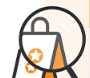
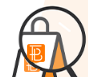
flash auto load sorted

diff --git a/src/pages/helpCenter/Placeanorder.js b/src/pages/helpCenter/Placeanorder.js
@@ -1,21 +1,10 @@
 import React from "react";
+import search from "./Placeanorder/1.webp";
 
 export default function Placeanorder() {
   return (
     <div class="contentswrap">
       <h2 className="maincontecthead">How to place an order</h2>
-      <p>&nbsp;</p>
-      <p>
-        <iframe
-          title="YouTube video player"
-          src="https://www.youtube.com/embed/XyUwkOvzqCA?si=2tX0gzDpXJuLVsNx"
-          width="560"
-          height="315"
-          frameborder="0"
-          allow="accelerometer; autoplay; clipboard-write; encrypted-media; gyroscope; picture-in-picture; web-share"
-          allowfullscreen="allowfullscreen"
-        ></iframe>
-      </p>
       <p>&nbsp;</p>
       <p dir="ltr">Place an order in a few simple steps:</p>
       <p dir="ltr">&nbsp;</p>
@@ -39,8 +28,8 @@ export default function Placeanorder() {
             >
               <div class="IZ6rdc">
                 •&nbsp;Browse the&nbsp;
-                <a class="-cta" href="https://www.jumia.com.ng/">
-                  JUMIA WEBSITE&nbsp;
+                <a class="-cta" href="https://www.fashionblush.com/">
+                  FASHION BLUSH&nbsp;
                 </a>
                 or use the search bar to find the product you want to order.
               </div>
@@ -72,23 +61,20 @@ export default function Placeanorder() {
       <p dir="ltr">&nbsp;</p>
       <p dir="ltr">
         <strong>
-          Ensure to check the seller score, product rating, pricing, warranty
-          information, and the product description.
+          Ensure to check the product rating, pricing and the product
+          description.
         </strong>
       </p>
       <p dir="ltr">&nbsp;</p>
       <p>
-        <img
-          class="-dkimg"
-          src="https://ng.jumia.is/cms/0-1-initiatives/cxp/2023/place-order-1-dk.png"
-        />
+        <img class="-dkimg" src={search} />
       </p>
-      <p>
+      {/* <p>
         <img
           class="-mbimg"
           src="https://ng.jumia.is/cms/0-1-initiatives/cxp/2023/place-order/place-order-1-m.png"
         />
-      </p>
+      </p> */}
       <p dir="ltr">&nbsp;</p>
       <p dir="ltr">
         <strong>Step 2</strong>:&nbsp;
@@ -108,18 +94,18 @@ export default function Placeanorder() {
           src="https://ng.jumia.is/cms/0-1-initiatives/cxp/2023/place-order-2-dk.png"
         />
       </p>
-      <p>
+      {/* <p>
         <img
           class="-mbimg"
           src="https://ng.jumia.is/cms/0-1-initiatives/cxp/2023/place-order/place-order-2-m.png"
         />
-      </p>
-      <p>
+      </p> */}
+      {/* <p>
         <img
           class="-mbimg"
           src="https://ng.jumia.is/cms/0-1-initiatives/cxp/2023/place-order/place-order-3-m.png"
         />
-      </p>
+      </p> */}
       <p dir="ltr">&nbsp;</p>
       <p>
         <img

diff --git a/src/components/footer/Footer.js b/src/components/footer/Footer.js
@@ -199,11 +199,6 @@ export default function Footer() {
                       Pay for Order
                     </Link>
                   </li>
-                  <li>
-                    <Link to="/ReturnandRefundPolicy" class="col-li">
-                      Returns & Refunds
-                    </Link>
-                  </li>
 
                   <li>
                     <Link to="/ContactUs" class="col-li">
@@ -215,7 +210,7 @@ export default function Footer() {
             </div>
 
             <div class="footer-colum">
-              <div class="col-heading">PearlyTouch</div>
+              <div class="col-heading">Fashion Blush</div>
               <div class="col-ul">
                 <ul>
                   <li>
@@ -236,6 +231,11 @@ export default function Footer() {
                   <li>
                     <Link to="/CookiePolicy" class="col-li">
                       Cookie Policy
+                    </Link>
+                  </li>
+                  <li>
+                    <Link to="/ReturnandRefundPolicy" class="col-li">
+                      Returns & Refunds policy
                     </Link>
                   </li>
                 </ul>

diff --git a/src/components/countdown/ProductCountdowns.js b/src/components/countdown/ProductCountdowns.js
@@ -1,8 +1,11 @@
 import React, { useState, useEffect } from "react";
 
-export default function ProductCountdowns({ products, getcurrentFlash }) {
-  const [saleEnded, setSaleEnded] = useState(false);
-
+export default function ProductCountdowns({
+  products,
+  getcurrentFlash,
+  saleEnded,
+  setSaleEnded,
+}) {
   const now = new Date();
   const uniqueTimes = Array.from(
     new Set(products.map((product) => new Date(product.saleTime)))
@@ -22,15 +25,6 @@ export default function ProductCountdowns({ products, getcurrentFlash }) {
 
     return () => clearInterval(countdown);
   }, [nearestSaleTime]);
-
-  useEffect(() => {
-    if (saleEnded) {
-      setTimeout(() => {
-        getcurrentFlash();
-        // window.location.reload();
-      }, 3000); // Reload after 3 seconds when the sale ends
-    }
-  }, [saleEnded]);
 
   const CountdownTimer = ({ targetTime }) => {
     const calculateTimeLeft = () => {

diff --git a/src/components/productsSlidable/productGroup/ProductsGroup.js b/src/components/productsSlidable/productGroup/ProductsGroup.js
@@ -10,6 +10,7 @@ import ProductCardSkull from "../../Skeletons/ProductCardSkull";
 const ProductsGroup = () => {
   const [products, setProducts] = useState([]);
   const [loading, setLoading] = useState(true);
+  const [saleEnded, setSaleEnded] = useState(false);
 
   const [contwidth, setContwidth] = useState(0);
   const [elementwidth, setElementwidth] = useState(0);
@@ -19,7 +20,7 @@ const ProductsGroup = () => {
       setLoading(false);
       setProducts(p.data);
     });
-  }, []);
+  }, [saleEnded]);
 
   useEffect(() => {
     const proarea = document.querySelector(".productsarea");
@@ -52,6 +53,8 @@ const ProductsGroup = () => {
             <ProductCountdowns
               products={products}
               getcurrentFlash={getcurrentFlash}
+              saleEnded={saleEnded}
+              setSaleEnded={setSaleEnded}
             />
 
             <Link to={`/Flashsale`}>

diff --git a/src/pages/policies/TermsAndConditions.js b/src/pages/policies/TermsAndConditions.js
@@ -22,7 +22,6 @@ export default function TermsAndConditions() {
         <div class="contacttopcont">
           <div class="contactheadcont">
             <p>
-              Terms and Conditions{" "}
               {staticTexts && staticTexts.length > 0 && staticTexts[0].info1}
             </p>
           </div>
